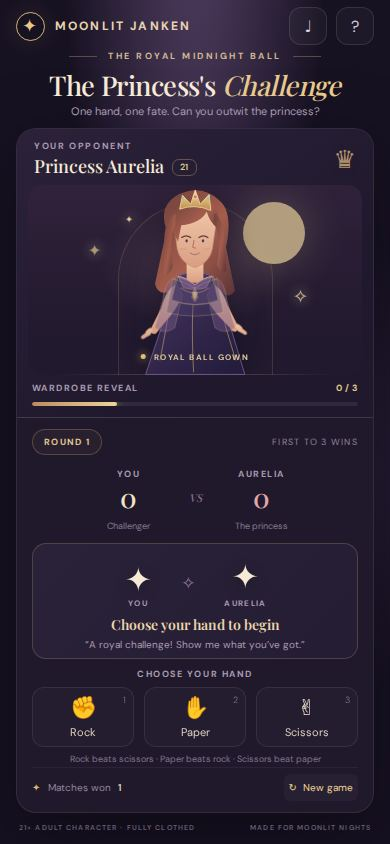
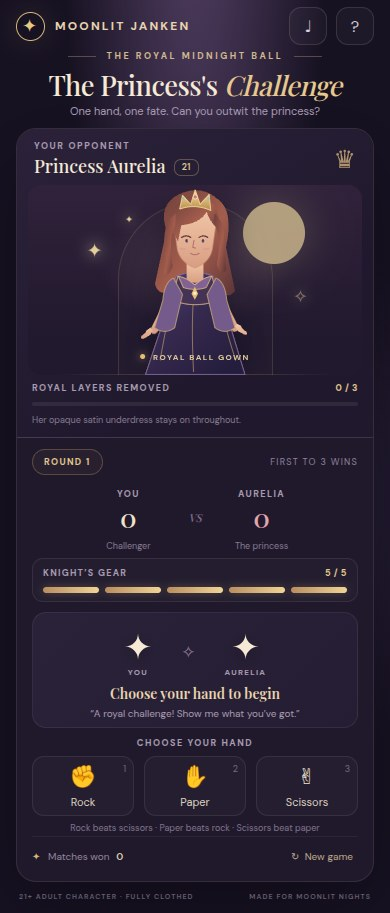
Publish static build for issue #2
Run: 41989630596
Attempt: 1
Generation: 4
Source: c33c797c0e609e89aefca60df0bcdc92998c4a14

diff --git a/style.css b/style.css
@@ -1,6 +1,26 @@
 @import url('https://fonts.googleapis.com/css2?family=DM+Sans:wght@400;500;600;700&family=Playfair+Display:wght@500;600;700&display=swap');
 :root{color-scheme:dark;--bg:#171222;--panel:#211a30;--panel2:#2b223b;--line:rgba(244,224,190,.13);--cream:#f6ead7;--muted:#a99bb5;--gold:#e4bd7a;--rose:#dc8ca4;--green:#94c8ab;--shadow:0 24px 70px #08060d88}
 *{box-sizing:border-box}html{min-height:100%;background:var(--bg)}body{margin:0;min-height:100svh;color:var(--cream);font-family:'DM Sans',system-ui,sans-serif;background:radial-gradient(ellipse at 50% -18%,#554166 0,transparent 48%),radial-gradient(ellipse at 82% 55%,#29203a 0,transparent 36%),#171222;overflow-x:hidden}button{font:inherit;color:inherit}.shell{max-width:1160px;margin:auto;padding:22px 30px 28px;min-height:100svh;display:flex;flex-direction:column}.topbar{height:48px;display:flex;align-items:center;justify-content:space-between;gap:12px}.brand{display:flex;align-items:center;gap:10px;font-size:12px;letter-spacing:.18em;text-transform:uppercase;font-weight:700;color:#e8d4af}.brand-mark{width:29px;height:29px;border:1px solid #d5b57c;border-radius:50%;display:grid;place-items:center;color:#e7c983;font:18px Georgia;box-shadow:0 0 24px #d9b67722}.top-actions{display:flex;align-items:center;gap:9px}.icon-btn{width:38px;height:38px;border-radius:12px;background:#ffffff08;border:1px solid var(--line);display:grid;place-items:center;color:#d9cedd;cursor:pointer;transition:.2s}.icon-btn:hover{background:#ffffff14;border-color:#c8a98080}.intro{text-align:center;padding:17px 0 23px}.eyebrow{display:flex;align-items:center;justify-content:center;gap:11px;color:#d2b88e;font-size:9px;letter-spacing:.28em;font-weight:700}.eyebrow-line{width:28px;height:1px;background:#b49a7a66}h1{font:500 clamp(31px,4vw,47px)/1.15 'Playfair Display',Georgia,serif;margin:10px 0 6px;letter-spacing:-.02em}h1 em{font-weight:500;color:#e7c98e} .intro p{margin:0;color:var(--muted);font-size:13px}.game{display:grid;grid-template-columns:1fr .93fr;min-height:530px;background:#20192c;border:1px solid #f1dfbf19;border-radius:20px;box-shadow:var(--shadow);overflow:hidden}.portrait-panel{padding:21px 24px 18px;background:linear-gradient(145deg,#2b223a,#20192d 67%);border-right:1px solid var(--line);display:flex;flex-direction:column;min-width:0}.portrait-head{display:flex;justify-content:space-between;align-items:center}.small-label{color:#aa9ab2;font-size:9px;letter-spacing:.18em;font-weight:700}.name{font:500 22px/1.3 'Playfair Display',Georgia,serif;margin-top:3px}.age{display:inline-grid;place-items:center;vertical-align:3px;width:25px;height:17px;margin-left:4px;border:1px solid #ddbd7b55;border-radius:7px;color:#dfc58e;font:600 9px 'DM Sans',sans-serif;letter-spacing:.04em}.crown-icon{font-size:25px;color:#d3b17c;opacity:.8}.art-stage{height:375px;position:relative;overflow:hidden;margin:12px -7px 10px;border-radius:14px;background:radial-gradient(ellipse at 50% 43%,#8d6a784d,transparent 40%),linear-gradient(180deg,#30223a,#21192e 82%);display:flex;justify-content:center;align-items:flex-end}.art-stage:after{content:'';position:absolute;bottom:0;left:8%;right:8%;height:1px;background:linear-gradient(90deg,transparent,#d8bb8055,transparent)}.moon{position:absolute;width:100px;height:100px;right:17%;top:9%;border-radius:50%;background:#dfc996;opacity:.75;box-shadow:0 0 45px #f4dda555}.arch{position:absolute;width:240px;height:300px;top:17px;border:1px solid #bba17836;border-bottom:0;border-radius:140px 140px 0 0;box-shadow:inset 0 0 30px #d6bd8b08}.princess{position:absolute;bottom:-6px;height:352px;width:auto;z-index:2;filter:drop-shadow(0 13px 15px #100b1970);transition:transform .35s}.spark{position:absolute;z-index:3;color:#e6cf9b;text-shadow:0 0 12px #fff3c9;animation:twinkle 2.8s ease-in-out infinite}.s1{top:29%;left:18%;font-size:16px}.s2{top:53%;right:16%;font-size:18px;animation-delay:.9s}.s3{top:15%;left:29%;font-size:10px;animation-delay:1.6s}@keyframes twinkle{0%,100%{opacity:.35;transform:scale(.8)}50%{opacity:1;transform:scale(1.2)}}.stage-caption{position:absolute;z-index:4;bottom:13px;left:50%;transform:translateX(-50%);white-space:nowrap;display:flex;align-items:center;gap:8px;color:#dbc798;font-size:8px;font-weight:700;letter-spacing:.18em}.caption-dot{width:5px;height:5px;border-radius:50%;background:var(--gold);box-shadow:0 0 9px var(--gold)}.wardrobe-bar{margin-top:auto}.wardrobe-copy{display:flex;justify-content:space-between;color:#a89bb1;font-size:9px;letter-spacing:.16em;font-weight:700;margin-bottom:8px}.wardrobe-copy b{color:#e2c78e;letter-spacing:.06em}.progress{height:4px;background:#ffffff12;border-radius:9px;overflow:hidden}.progress i{display:block;width:0;height:100%;background:linear-gradient(90deg,#ba8d60,#f0d496);border-radius:9px;transition:width .5s ease;box-shadow:0 0 10px #e6bf77}.play-panel{padding:23px 26px 19px;display:flex;flex-direction:column;min-width:0}.round-line{display:flex;align-items:center;justify-content:space-between}.round-pill{border-radius:20px;border:1px solid #bd9a6655;padding:6px 11px;color:#e1c78f;font-size:9px;letter-spacing:.15em;font-weight:700;background:#e6c47b0b}.score-label{font-size:9px;color:#8f829b;letter-spacing:.14em}.score-row{display:flex;align-items:center;justify-content:center;gap:18px;margin:17px 0 18px}.score-card{text-align:center;width:92px}.score-name{font-size:9px;letter-spacing:.16em;color:#a99ab1;font-weight:700}.score-card strong{display:block;font:500 34px/1.15 'Playfair Display',Georgia,serif;color:#f2e3ca}.score-card.opponent strong{color:#e4a6ae}.score-card small{font-size:9px;color:#877a91}.score-vs{font:italic 11px 'Playfair Display',Georgia,serif;color:#806e8b}.duel-box{border:1px solid #e8d8c214;background:linear-gradient(135deg,#2a2238,#251d33);border-radius:14px;padding:12px 14px 11px;text-align:center;min-height:168px;display:flex;flex-direction:column;justify-content:center;transition:border-color .25s,background .25s}.hands{height:90px;display:flex;align-items:center;justify-content:center;gap:29px}.hand-slot{display:flex;flex-direction:column;align-items:center;gap:1px}.hand-icon{font-family:system-ui,sans-serif;font-size:42px;line-height:1;height:52px;display:grid;place-items:center;filter:drop-shadow(0 4px 8px #0004);transition:transform .2s}.hand-slot small{font-size:8px;letter-spacing:.16em;color:#a99bb1;font-weight:700}.duel-divider{color:#8e7c96;font-size:17px}.result{font:600 14px 'Playfair Display',Georgia,serif;min-height:19px;color:#ead6af}.quip{font-size:10px;color:#a99bb1;margin-top:4px;line-height:1.35}.duel-box.won{border-color:#b9a26855;background:linear-gradient(135deg,#30273a,#2c2432)}.duel-box.lost{border-color:#bf798344}.duel-box.tie{border-color:#a994bc44}.choose-label{text-align:center;font-size:9px;letter-spacing:.17em;font-weight:700;color:#a89bb1;margin:18px 0 10px}.choices{display:grid;grid-template-columns:repeat(3,1fr);gap:10px}.choice{position:relative;min-height:79px;border:1px solid #f0dfc219;border-radius:12px;background:#ffffff05;display:flex;flex-direction:column;align-items:center;justify-content:center;gap:5px;cursor:pointer;transition:transform .16s,border-color .2s,background .2s}.choice:hover{transform:translateY(-2px);border-color:#d6b87b99;background:#d2ad6510}.choice:active{transform:scale(.97)}.choice:focus-visible,.icon-btn:focus-visible,.reset-btn:focus-visible{outline:2px solid #f0d394;outline-offset:3px}.choice-icon{font-size:25px;line-height:1.15}.choice>span:nth-child(2){font-size:11px;color:#ded1c1}.choice kbd{position:absolute;right:7px;top:6px;color:#746a7e;font:9px 'DM Sans',sans-serif}.hint{min-height:25px;text-align:center;color:#81758d;font-size:9px;padding-top:10px}.bottom-row{display:flex;align-items:center;justify-content:space-between;margin-top:auto;padding-top:10px;border-top:1px solid #ffffff0d}.best{font-size:10px;color:#94879c}.best span{color:#d8b576;margin-right:5px}.best b{color:#dfcfb4;font-weight:600;margin-left:4px}.reset-btn{border:0;background:none;color:#bda78a;font-size:10px;cursor:pointer;padding:7px 5px;border-radius:6px}.reset-btn:hover{color:#f0d397;background:#ffffff08}footer{display:flex;justify-content:space-between;padding:15px 3px 0;color:#685d72;font-size:8px;font-weight:600;letter-spacing:.16em}.wardrobe{transition:opacity .35s}.wardrobe.w1,.wardrobe.w2,.wardrobe.w3{opacity:0}.princess.level-1 .w1,.princess.level-2 .w1,.princess.level-2 .w2,.princess.level-3 .w1,.princess.level-3 .w2,.princess.level-3 .w3{opacity:1}.princess.level-1{filter:drop-shadow(0 13px 15px #100b1970) hue-rotate(-6deg)}.princess.level-2{filter:drop-shadow(0 13px 15px #100b1970) hue-rotate(7deg)}.princess.level-3{filter:drop-shadow(0 13px 15px #100b1970) saturate(1.12)}.modal-backdrop{display:none;position:fixed;inset:0;z-index:20;background:#100b18c9;backdrop-filter:blur(7px);padding:20px;place-items:center}.modal-backdrop.open{display:grid}.modal{position:relative;width:min(430px,100%);background:linear-gradient(150deg,#30263b,#211a30);border:1px solid #e6ce9e35;border-radius:18px;padding:31px;box-shadow:var(--shadow)}.close-modal{position:absolute;right:15px;top:12px;border:0;background:none;color:#b7a9bd;font-size:25px;cursor:pointer}.modal h2{font:500 29px 'Playfair Display',Georgia,serif;margin:8px 0 16px}.modal p{color:#c1b4c6;font-size:13px;line-height:1.65}.modal b{color:#eed9a9}.modal-note{border-top:1px solid var(--line);padding-top:14px;color:#9e90a7;font-size:11px;margin-top:18px}.modal-ok{margin-top:20px;width:100%;border:1px solid #d8b87c66;border-radius:10px;background:#d9b56b18;color:#ecd5a2;padding:11px;cursor:pointer}.modal-ok:hover{background:#d9b56b2c}
+/* The satin underdress remains visible as each removable outer layer fades away. */
+.outer-sleeves,.outer-skirt,.outer-bodice{transition:opacity .4s ease,transform .4s ease;transform-origin:center}
+.princess.level-1 .outer-sleeves,.princess.level-2 .outer-sleeves,.princess.level-3 .outer-sleeves{opacity:0;transform:translateY(12px)}
+.princess.level-2 .outer-skirt,.princess.level-3 .outer-skirt{opacity:0;transform:translateY(18px)}
+.princess.level-3 .outer-bodice{opacity:0;transform:translateY(-8px)}
+.wardrobe-note{display:block;color:#867a90;font-size:9px;line-height:1.4;margin-top:8px}
+.gear-meter{margin:-7px 0 15px;padding:10px 12px;border:1px solid #f0dfc219;border-radius:11px;background:#ffffff04}
+.gear-heading{display:flex;justify-content:space-between;align-items:center;color:#a89bb1;font-size:9px;font-weight:700;letter-spacing:.14em}
+.gear-heading b{color:#e2c78e;letter-spacing:.06em}
+.gear-pips{display:grid;grid-template-columns:repeat(5,1fr);gap:6px;margin-top:8px}
+.gear-pips i{height:6px;border-radius:8px;background:linear-gradient(90deg,#ba8d60,#f0d496);box-shadow:0 0 8px #e6bf7744;transition:opacity .25s,background .25s}
+.gear-pips i.spent{background:#ffffff12;box-shadow:none}
+.outcome-card{width:min(440px,100%);max-height:min(92svh,700px);overflow:auto;text-align:center;padding:24px 28px 26px;background:radial-gradient(ellipse at 50% 0,#56406066,transparent 58%),linear-gradient(150deg,#30263b,#211a30);border:1px solid #e6ce9e45;border-radius:20px;box-shadow:var(--shadow);animation:outcome-in .28s ease-out}
+.outcome-art{height:185px;display:grid;place-items:center;margin:-3px 0 4px;border-radius:14px;background:radial-gradient(ellipse at 60% 75%,#c3996c20,transparent 65%),#17122255;overflow:hidden}
+.outcome-art svg{display:block;width:100%;height:100%;max-height:185px}
+.outcome-card h2{font:500 34px 'Playfair Display',Georgia,serif;color:#f0d49b;margin:8px 0 10px}
+.outcome-card p{color:#c1b4c6;font-size:13px;line-height:1.6;margin:0 auto;max-width:350px}
+.outcome-card .modal-ok{margin-top:20px}
+@keyframes outcome-in{from{opacity:0;transform:translateY(8px) scale(.98)}to{opacity:1;transform:translateY(0) scale(1)}}
+@media(max-width:760px){.gear-meter{margin:-5px 0 10px;padding:8px 10px}.outcome-card{padding:18px 20px 20px}.outcome-art{height:150px}.outcome-art svg{max-height:150px}}
 @media(min-height:850px) and (min-width:701px){.shell{justify-content:center}.topbar{margin-bottom:5px}.intro{padding-top:15px;padding-bottom:24px}.game{min-height:555px}.portrait-panel{padding-top:24px}.art-stage{height:400px}.princess{height:375px}}
 @media(max-width:760px){.shell{padding:8px 16px max(12px,env(safe-area-inset-bottom))}.topbar{height:36px}.intro{padding:6px 0 10px}h1{font-size:clamp(25px,7vw,30px);white-space:nowrap;margin:7px 0 4px}.intro p{font-size:11px}.game{grid-template-columns:1fr;min-height:0}.portrait-panel{padding:11px 15px 11px;border-right:0;border-bottom:1px solid var(--line)}.portrait-head{padding:0 2px}.name{font-size:18px}.art-stage{height:190px;margin:6px -4px 7px}.princess{height:205px}.moon{width:62px;height:62px}.arch{height:175px;width:155px}.wardrobe-bar{margin-top:0}.play-panel{padding:11px 15px 11px}.score-row{margin:6px 0 9px;gap:14px}.score-card strong{font-size:27px}.duel-box{min-height:116px;padding:6px}.hands{height:64px}.hand-icon{font-size:34px;height:39px}.choose-label{margin:9px 0 7px}.choice{min-height:60px}.choice-icon{font-size:22px}.bottom-row{padding-top:6px}.hint{padding-top:6px;min-height:20px}footer{padding-top:10px;font-size:7px}}
 @media(max-width:380px){.shell{padding-left:11px;padding-right:11px}.portrait-panel,.play-panel{padding-left:13px;padding-right:13px}.eyebrow{font-size:8px;letter-spacing:.2em}.game{border-radius:15px}.art-stage{height:175px}.princess{height:190px}.choice{min-height:57px}}

diff --git a/index.html b/index.html
@@ -15,17 +15,20 @@
 <div class="portrait-head"><div><div class="small-label">YOUR OPPONENT</div><div class="name">Princess Aurelia <span class="age">21</span></div></div><div class="crown-icon">♛</div></div>
 <div class="art-stage">
 <div class="moon"></div><span class="spark s1">✦</span><span class="spark s2">✧</span><span class="spark s3">✦</span><div class="arch"></div>
-<svg id="princess" class="princess" viewBox="0 0 360 500" role="img" aria-label="Princess Aurelia in her royal gown">
+<svg id="princess" class="princess" viewBox="0 0 360 500" role="img" aria-label="Princess Aurelia in her layered, fully clothed royal gown">
 <defs><linearGradient id="hair" x2="1" y2="1"><stop stop-color="#6c3e3a"/><stop offset=".55" stop-color="#a45d4d"/><stop offset="1" stop-color="#5b3438"/></linearGradient><linearGradient id="dress" x2=".8" y2="1"><stop stop-color="#514176"/><stop offset=".5" stop-color="#36294f"/><stop offset="1" stop-color="#241d3d"/></linearGradient><linearGradient id="skin" x2="0" y2="1"><stop stop-color="#f3c9aa"/><stop offset="1" stop-color="#d99e83"/></linearGradient><linearGradient id="gold" x2="0" y2="1"><stop stop-color="#f6dea0"/><stop offset="1" stop-color="#ba8c4c"/></linearGradient></defs>
 <!-- flowing hair and silhouette -->
 <path fill="url(#hair)" d="M111 132Q89 71 142 44Q197 20 238 58Q275 86 256 174L278 280Q260 305 239 274L121 281Q90 294 83 263Z"/>
-<!-- gown skirt -->
-<path fill="url(#dress)" stroke="#776292" stroke-width="2" d="M135 245Q180 226 225 245Q239 300 266 365L302 484H60L100 365Q124 300 135 245Z"/>
-<path fill="none" stroke="#c39d67" stroke-width="2" opacity=".8" d="M180 268Q170 340 177 479M123 292Q112 363 95 450M237 292Q255 374 280 450"/>
+<!-- opaque satin underdress remains fully covering at every wardrobe stage -->
+<path class="inner-skirt" fill="#79566f" stroke="#b58c9c" stroke-width="2" d="M135 245Q180 226 225 245Q239 300 266 365L302 484H60L100 365Q124 300 135 245Z"/>
+<!-- removable outer overskirt -->
+<path class="outer-skirt" fill="url(#dress)" stroke="#776292" stroke-width="2" d="M135 245Q180 226 225 245Q239 300 266 365L302 484H60L100 365Q124 300 135 245Z"/>
+<path class="outer-skirt" fill="none" stroke="#c39d67" stroke-width="2" opacity=".8" d="M180 268Q170 340 177 479M123 292Q112 363 95 450M237 292Q255 374 280 450"/>
 <!-- arms -->
 <path fill="url(#skin)" stroke="#cb947b" d="M135 264Q111 274 98 323L75 369Q69 379 77 384Q85 388 91 376L121 340Q145 309 154 281Z"/><path fill="url(#skin)" stroke="#cb947b" d="M222 263Q247 273 260 316L282 360Q289 371 282 378Q273 383 266 370L235 338Q211 310 204 281Z"/>
-<!-- neck and bodice base -->
-<path fill="url(#skin)" d="M160 205H201V251Q181 270 160 251Z"/><path fill="#453355" stroke="#c7a576" stroke-width="2" d="M139 245Q158 250 180 266Q203 249 222 245L237 303Q180 325 124 302Z"/>
+<!-- neck and opaque satin bodice beneath the removable jacket -->
+<path fill="url(#skin)" d="M160 205H201V251Q181 270 160 251Z"/><path class="inner-bodice" fill="#79566f" stroke="#b58c9c" stroke-width="2" d="M139 245Q158 250 180 266Q203 249 222 245L237 303Q180 325 124 302Z"/>
+<path class="outer-bodice" fill="#453355" stroke="#c7a576" stroke-width="2" d="M139 245Q158 250 180 266Q203 249 222 245L237 303Q180 325 124 302Z"/>
 <!-- face -->
 <path fill="url(#skin)" stroke="#c78e75" stroke-width="1.5" d="M130 121Q130 69 180 67Q232 69 231 122L223 177Q216 212 180 224Q144 211 137 177Z"/>
 <!-- hair framing and fringe -->
@@ -36,19 +39,18 @@
 <path fill="url(#gold)" stroke="#f3dc9d" stroke-width="2" d="M143 81L150 47l20 22 11-35 12 35 22-24 4 39Q180 67 143 81Z"/><circle cx="181" cy="51" r="5" fill="#c97782" stroke="#ffe0ac" stroke-width="2"/><circle cx="151" cy="55" r="3" fill="#8ac6c0"/><circle cx="213" cy="55" r="3" fill="#8ac6c0"/>
 <!-- gown collar -->
 <path fill="#846194" stroke="#d7b87e" stroke-width="2" d="M140 245Q159 247 180 266Q201 247 221 245L208 272Q180 281 152 272Z"/><path d="M180 270l-8 17 8 15 8-15Z" fill="#e3bd78"/><circle cx="180" cy="286" r="4" fill="#fff0c8"/>
-<g class="wardrobe w1"><path fill="#745b8c" stroke="#c7a576" stroke-width="2" d="M128 249Q106 259 102 303L82 370Q106 388 131 370L150 289Z"/><path fill="#745b8c" stroke="#c7a576" stroke-width="2" d="M232 249Q254 259 258 303L278 370Q254 388 229 370L210 289Z"/></g>
-<g class="wardrobe w2"><path fill="#554174" stroke="#d8b67a" stroke-width="2" d="M135 244Q157 251 180 264Q203 250 225 244L237 303Q180 325 123 302Z"/><path fill="none" stroke="#b396c0" stroke-width="2" d="M145 263q35 24 70 0"/></g>
-<g class="wardrobe w3"><path fill="#4c426b" stroke="#dfc68c" stroke-width="2" d="M126 250Q151 258 180 273Q209 258 234 250L250 333Q180 350 110 333Z"/><path d="M145 272q35 26 70 0" fill="none" stroke="#d9bc86" stroke-width="3"/><path d="M180 282l-9 13 9 14 9-14Z" fill="#e5c27e"/></g>
+<g class="outer-sleeves"><path fill="#745b8c" stroke="#c7a576" stroke-width="2" d="M128 249Q106 259 102 303L82 370Q106 388 131 370L150 289Z"/><path fill="#745b8c" stroke="#c7a576" stroke-width="2" d="M232 249Q254 259 258 303L278 370Q254 388 229 370L210 289Z"/></g>
 <!-- hands and sparkle -->
 <path fill="url(#skin)" d="M72 370q-10 4-13 13l-8 6q-5 5 0 8 4 2 9-3l11-6 7-11ZM283 360q11 4 14 13l8 6q5 5 0 8-4 2-9-3l-11-6-7-11Z"/>
 </svg>
 <div class="stage-caption"><span class="caption-dot"></span><span id="outfitLabel">ROYAL BALL GOWN</span></div>
 </div>
-<div class="wardrobe-bar"><div class="wardrobe-copy"><span>WARDROBE REVEAL</span><b id="wardrobeCount">0 / 3</b></div><div class="progress"><i id="progressFill"></i></div></div>
+<div class="wardrobe-bar"><div class="wardrobe-copy"><span>ROYAL LAYERS REMOVED</span><b id="wardrobeCount">0 / 3</b></div><div class="progress"><i id="progressFill"></i></div><small class="wardrobe-note">Her opaque satin underdress stays on throughout.</small></div>
 </div>
 <div class="play-panel">
 <div class="round-line"><span class="round-pill" id="roundLabel">ROUND 1</span><span class="score-label" id="scoreLabel">FIRST TO 3 WINS</span></div>
 <div class="score-row"><div class="score-card"><span class="score-name">YOU</span><strong id="playerScore">0</strong><small>Challenger</small></div><div class="score-vs">VS</div><div class="score-card opponent"><span class="score-name">AURELIA</span><strong id="princessScore">0</strong><small>The princess</small></div></div>
+<div class="gear-meter"><div class="gear-heading"><span>KNIGHT’S GEAR</span><b id="gearLabel">5 / 5</b></div><div class="gear-pips" id="gearPips" role="meter" aria-label="Knight’s gear" aria-valuemin="0" aria-valuemax="5" aria-valuenow="5"><i></i><i></i><i></i><i></i><i></i></div></div>
 <div class="duel-box" id="duelBox" aria-live="polite"><div class="hands"><div class="hand-slot"><span class="hand-icon" id="playerHand">✦</span><small>YOU</small></div><div class="duel-divider"><span>✧</span></div><div class="hand-slot"><span class="hand-icon" id="princessHand">✦</span><small>AURELIA</small></div></div><div class="result" id="result">Choose your hand to begin</div><div class="quip" id="quip">“A royal challenge! Show me what you’ve got.”</div></div>
 <div class="choose-label">CHOOSE YOUR HAND</div><div class="choices" role="group" aria-label="Choose rock, paper, or scissors"><button class="choice" data-choice="rock"><span class="choice-icon">✊</span><span>Rock</span><kbd>1</kbd></button><button class="choice" data-choice="paper"><span class="choice-icon">✋</span><span>Paper</span><kbd>2</kbd></button><button class="choice" data-choice="scissors"><span class="choice-icon">✌</span><span>Scissors</span><kbd>3</kbd></button></div>
 <div class="hint" id="hint">Rock beats scissors · Paper beats rock · Scissors beat paper</div>
@@ -58,7 +60,8 @@
 </main>
 <footer><span>21+ ADULT CHARACTER · FULLY CLOTHED</span><span>MADE FOR MOONLIT NIGHTS</span></footer>
 </div>
-<div class="modal-backdrop" id="modal" aria-hidden="true"><section class="modal" role="dialog" aria-modal="true" aria-labelledby="modalTitle"><button class="close-modal" id="closeModal" aria-label="Close">×</button><div class="small-label">A ROYAL PRIMER</div><h2 id="modalTitle">How to play</h2><p>Choose rock, paper, or scissors. Rock beats scissors, scissors beat paper, and paper beats rock. A tie means you both play again—no point awarded.</p><p>Be the first to win <b>three rounds</b> to claim the moonlit match. Each victory reveals a new look in Aurelia’s elegant, fully clothed wardrobe.</p><div class="modal-note">Tip: you can also use keys <b>1</b>, <b>2</b>, and <b>3</b>.</div><button class="modal-ok" id="modalOk">Let’s play</button></section></div>
+<div class="modal-backdrop" id="modal" aria-hidden="true"><section class="modal" role="dialog" aria-modal="true" aria-labelledby="modalTitle"><button class="close-modal" id="closeModal" aria-label="Close">×</button><div class="small-label">A ROYAL PRIMER</div><h2 id="modalTitle">How to play</h2><p>Choose rock, paper, or scissors. Rock beats scissors, scissors beat paper, and paper beats rock. A tie means you both play again—no point awarded.</p><p>Win <b>three rounds</b> to claim the match. Each win removes one outer gown layer, while Aurelia’s opaque satin underdress stays on. Each lost round costs one of your knight’s <b>five gear points</b>; ties cost nothing. Reach zero and it’s Game Over.</p><div class="modal-note">Tip: you can also use keys <b>1</b>, <b>2</b>, and <b>3</b>.</div><button class="modal-ok" id="modalOk">Let’s play</button></section></div>
+<div class="modal-backdrop outcome-backdrop" id="gameOver" aria-hidden="true"><section class="outcome-card" role="dialog" aria-modal="true" aria-labelledby="gameOverTitle"><div class="outcome-art" aria-hidden="true"><svg viewBox="0 0 320 160"><defs><linearGradient id="steel" x2="0" y2="1"><stop stop-color="#b9c3d5"/><stop offset="1" stop-color="#606a82"/></linearGradient><linearGradient id="leather" x2="0" y2="1"><stop stop-color="#4a3044"/><stop offset="1" stop-color="#17121d"/></linearGradient></defs><ellipse cx="156" cy="145" rx="143" ry="8" fill="#090711" opacity=".55"/><path d="M181 119l22-27 27 19-9 37h-35z" fill="#323147" stroke="#d5b477" stroke-width="3"/><path d="M198 104l12 10 12-10M210 114v28" fill="none" stroke="#b8a5cc" stroke-width="2"/><g stroke="#d6c6a9" stroke-width="3" stroke-linecap="round"><path d="M34 110q9-22 31-23l25 8 38 11 35 13" fill="none"/><path d="M73 105l-17 28M104 108l-3 28M134 115l18 16" fill="none"/></g><path d="M63 91l37-13 30 14-7 32-48 5-27-15z" fill="url(#steel)" stroke="#d9d4df" stroke-width="2"/><path d="M81 91l18 7 18-8M96 98v27" fill="none" stroke="#586078" stroke-width="2"/><path d="M29 91q12-19 28-4l-3 23-19 6-12-10z" fill="url(#steel)" stroke="#ded5df" stroke-width="2"/><path d="M25 101h27M42 93l-2 17" stroke="#596079" stroke-width="2"/><path d="M33 87l5-12 8 11" fill="#b58a54" stroke="#e1c98d" stroke-width="2"/><g><path d="M255 46q-22-20-35 3l2 36-8 39h18l10-25 8 25h18l-7-41 5-31z" fill="#5b374b" stroke="#c59c6a" stroke-width="2"/><path d="M225 64q-10 15-8 31l-11 20 13 3 17-22 5-27M249 90l-2 32h15l-1-33" fill="url(#leather)" stroke="#9b7385" stroke-width="2"/><path d="M203 113l-10 2-4 7 19 1 4-5zM247 121l-1 13 17 1 4-6-8-8" fill="#17131d" stroke="#bf9c78" stroke-width="2"/><path d="M224 48q-7-20 11-27 19-2 24 16l-3 20-26 3z" fill="#a45d4d"/><path d="M224 40q0-20 18-21 17 2 19 20l-8-5-7-8-10 11z" fill="#57363b"/><path d="M232 46q8 5 15 0" fill="none" stroke="#67404a" stroke-width="2"/><path d="M229 27l6-12 8 8 7-14 7 14 8-7 1 14q-15-7-31 0z" fill="#d5b477" stroke="#f2d89b" stroke-width="1.5"/></g></svg></div><div class="small-label">THE CROWN HOLDS</div><h2 id="gameOverTitle">Game Over</h2><p>Aurelia claims the match. Your fully armored knight has fallen, and the princess stands victorious over his shield.</p><button class="modal-ok" id="gameOverReset">Challenge again</button></section></div>
 <script src="game.js"></script>
 </body>
 </html>

diff --git a/game.js b/game.js
@@ -1,5 +1,6 @@
 (() => {
   const $ = (id) => document.getElementById(id);
+  const gameOver = $('gameOver');
   const hands = { rock: '✊', paper: '✋', scissors: '✌' };
   const names = { rock: 'Rock', paper: 'Paper', scissors: 'Scissors' };
   const beats = { rock: 'scissors', paper: 'rock', scissors: 'paper' };
@@ -8,7 +9,7 @@
     loss: ['A royal victory! Shall we go again?', 'My move! You nearly had me.', 'A point for the crown. Your turn!'],
     tie: ['Great minds think alike. Again!', 'A tie! Fate wants another round.', 'We matched—let’s try once more.']
   };
-  let player = 0, princess = 0, round = 1, level = 0, locked = false, soundOn = false;
+  let player = 0, princess = 0, round = 1, level = 0, gear = 5, locked = false, soundOn = false;
   let best = Number(localStorage.getItem('moonlit-best') || 0);
   $('bestScore').textContent = best;
 
@@ -29,6 +30,11 @@
     $('playerScore').textContent = player;
     $('princessScore').textContent = princess;
     $('roundLabel').textContent = `ROUND ${round}`;
+  }
+  function updateGear() {
+    $('gearLabel').textContent = `${gear} / 5`;
+    $('gearPips').setAttribute('aria-valuenow', gear);
+    $('gearPips').querySelectorAll('i').forEach((pip, index) => pip.classList.toggle('spent', index >= gear));
   }
   function choose(choice) {
     if (locked) return;
@@ -52,48 +58,56 @@
       $('duelBox').classList.add('won');
       $('result').textContent = `${names[choice]} beats ${names[reply]} — you win!`;
       $('quip').textContent = `“${princessLines.win[Math.floor(Math.random() * 3)]}”`;
-      $('hint').textContent = level < 3 ? 'A new royal look revealed!' : 'You’re one step closer to the crown!';
+      $('hint').textContent = level === 1 ? 'Her outer sleeves are removed; the satin gown remains.' : level === 2 ? 'The overskirt is removed; her satin court dress remains.' : 'The last outer layer is removed—Aurelia remains fully clothed!';
       $('princess').className.baseVal = `princess level-${level}`;
+      $('princess').setAttribute('aria-label', ['Princess Aurelia in her royal gown layered over an opaque satin underdress.', 'Princess Aurelia in a sleeveless royal gown layered over an opaque satin underdress.', 'Princess Aurelia in an opaque satin court dress.', 'Princess Aurelia in her opaque satin underdress.'][level]);
       $('wardrobeCount').textContent = `${level} / 3`;
       $('progressFill').style.width = `${level * 33.333}%`;
-      $('outfitLabel').textContent = ['ROYAL BALL GOWN', 'VELVET EVENING LOOK', 'MIDNIGHT COURT ENSEMBLE', 'MOONLIT VICTORY LOOK'][level];
+      $('outfitLabel').textContent = ['ROYAL BALL GOWN', 'SLEEVELESS BALL GOWN', 'SATIN COURT DRESS', 'SATIN UNDERDRESS'][level];
       tone(660, .15); setTimeout(() => tone(880, .18), 90);
     } else {
-      princess++; $('duelBox').classList.add('lost');
+      princess++; gear--; updateGear(); $('duelBox').classList.add('lost');
       $('result').textContent = `${names[reply]} beats ${names[choice]} — Aurelia wins!`;
       $('quip').textContent = `“${princessLines.loss[Math.floor(Math.random() * 3)]}”`;
-      $('hint').textContent = 'The princess takes this round. Keep going!'; tone(300, .18);
+      $('hint').textContent = gear > 0 ? `Your knight loses a gear point. ${gear} remain.` : 'Your knight is out of gear!'; tone(300, .18);
     }
     updateScore();
-    if (player === 3 || princess === 3) finish(player === 3);
+    if (player === 3) finish(true);
+    else if (gear === 0) finish(false);
   }
   function finish(victory) {
     locked = true;
     document.querySelectorAll('.choice').forEach(button => button.disabled = true);
-    $('roundLabel').textContent = 'MATCH COMPLETE';
+    $('roundLabel').textContent = victory ? 'MATCH COMPLETE' : 'GAME OVER';
     $('scoreLabel').textContent = 'FINAL SCORE';
-    $('result').textContent = victory ? 'The moonlit match is yours!' : 'A royal victory for Aurelia!';
-    $('quip').textContent = victory ? '“You’ve earned the crown—and a rematch, anytime.”' : '“A lovely match! The rematch is yours to call.”';
-    $('hint').textContent = 'Start a new game to play again.';
+    $('result').textContent = victory ? 'The moonlit match is yours!' : 'Your knight is out of gear.';
+    $('quip').textContent = victory ? '“You’ve earned the crown—and a rematch, anytime.”' : '“Aurelia takes the match. Rally your knight and try again.”';
+    $('hint').textContent = victory ? 'Start a new game to play again.' : 'The princess stands victorious over your fallen shield.';
     if (victory) {
       best++; localStorage.setItem('moonlit-best', best); $('bestScore').textContent = best;
       tone(740, .2); setTimeout(() => tone(990, .28), 160);
+    } else {
+      gameOver.classList.add('open'); gameOver.setAttribute('aria-hidden', 'false'); $('gameOverReset').focus();
+      tone(220, .3);
     }
   }
   document.querySelectorAll('.choice').forEach(button => button.addEventListener('click', () => choose(button.dataset.choice)));
   $('resetBtn').addEventListener('click', () => {
-    player = 0; princess = 0; round = 1; level = 0; locked = false;
+    player = 0; princess = 0; round = 1; level = 0; gear = 5; locked = false;
     document.querySelectorAll('.choice').forEach(button => button.disabled = false);
+    gameOver.classList.remove('open'); gameOver.setAttribute('aria-hidden', 'true'); updateGear();
     $('duelBox').classList.remove('won', 'lost', 'tie');
     $('playerHand').textContent = $('princessHand').textContent = '✦';
     $('result').textContent = 'Choose your hand to begin';
     $('quip').textContent = '“A royal challenge! Show me what you’ve got.”';
     $('hint').textContent = 'Rock beats scissors · Paper beats rock · Scissors beat paper';
     $('princess').className.baseVal = 'princess';
+    $('princess').setAttribute('aria-label', 'Princess Aurelia in her royal gown layered over an opaque satin underdress.');
     $('wardrobeCount').textContent = '0 / 3'; $('progressFill').style.width = '0%'; $('outfitLabel').textContent = 'ROYAL BALL GOWN';
     $('scoreLabel').textContent = 'FIRST TO 3 WINS';
     updateScore();
   });
+  $('gameOverReset').addEventListener('click', () => $('resetBtn').click());
   const modal = $('modal');
   function closeModal() { modal.classList.remove('open'); modal.setAttribute('aria-hidden', 'true'); }
   $('rulesBtn').addEventListener('click', () => { modal.classList.add('open'); modal.setAttribute('aria-hidden', 'false'); $('closeModal').focus(); });
